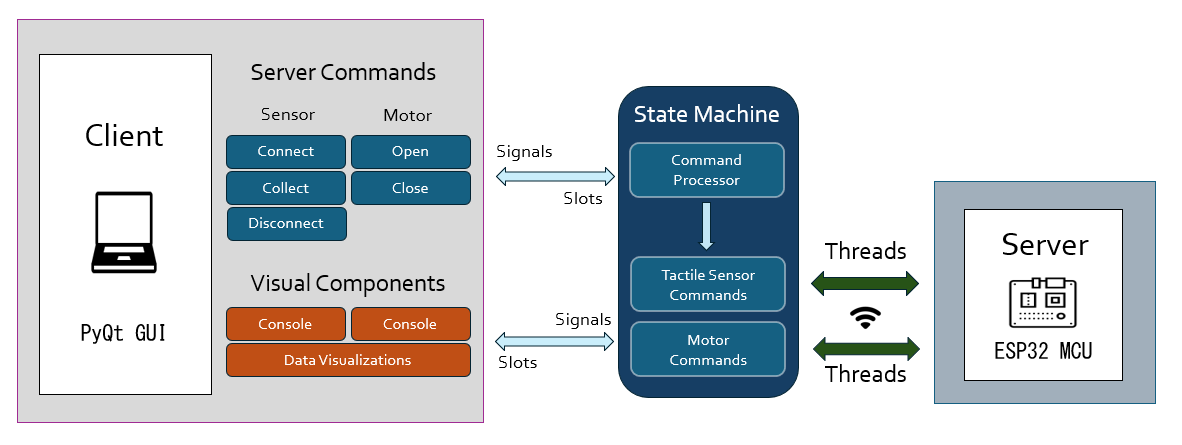
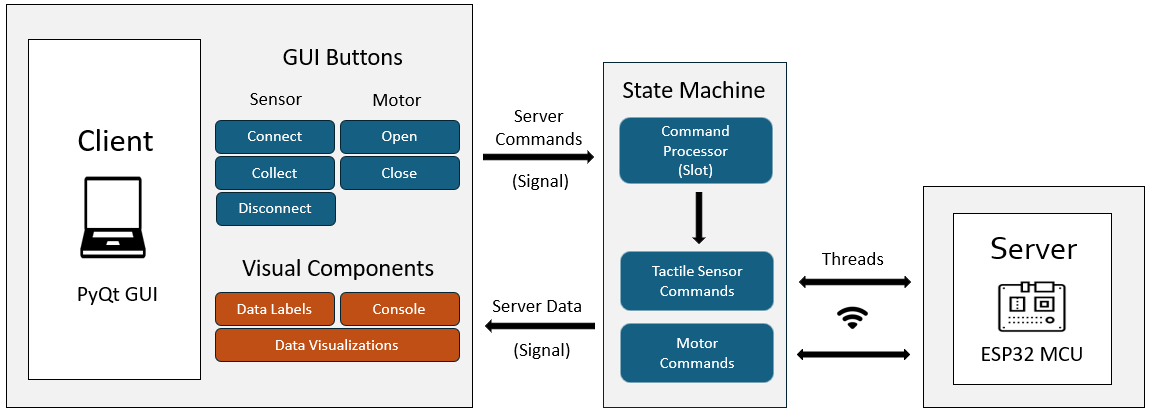
Feature refactoring (#18)
* updating index slicing of tactile data in LineGraph to use direct mutable methods

* moving ThreadWorker to StateMachine

* pulling in gui style changes

* updating readme header

* updating readme header

* updating readme header

* updating overview and project background

* fixing typos in Overview

* adding new gui snapshot image to readme

* updating architecture overview and diagram

* updating gui snapshot size

* fixing typos in application architecture

* updating wording in python socket section

* updating pyqt component architecture

* fixing typos in pyqt components

* updating content in repository structure

* updating table of contents links

* rewording project background

* fixing typos

* updating gui snapshot photo

* updating gui snapshot photo

* updating gui snapshot photo

diff --git a/src/components/LineGraph.py b/src/components/LineGraph.py
@@ -19,6 +19,7 @@ Methods:
 
 from PyQt6.QtWidgets import QWidget, QVBoxLayout
 import pyqtgraph as pg
+import math
 
 class LineGraph(QWidget):
     def __init__(self):
@@ -32,8 +33,7 @@ class LineGraph(QWidget):
         self.graph.setLabel("bottom", "Tactile Data Records")
 
         self.time = list(range(10))
-
-        self.tactile_data = {
+        self.data = {
             "x": [0 for _ in range(10)],
             "y": [0 for _ in range(10)],
             "z": [0 for _ in range(10)]
@@ -41,7 +41,7 @@ class LineGraph(QWidget):
 
         self.line_x = self.graph.plot(
             self.time,
-            self.tactile_data['x'],
+            self.data['x'],
             name="Tactile Sensor",
             pen=pg.mkPen(color="#0C746A", width=3),
             symbol="o",
@@ -51,7 +51,7 @@ class LineGraph(QWidget):
 
         self.line_y = self.graph.plot(
             self.time,
-            self.tactile_data['y'],
+            self.data['y'],
             name="Tactile Sensor",
             pen=pg.mkPen(color="#AFBBAF", width=3),
             symbol="o",
@@ -61,7 +61,7 @@ class LineGraph(QWidget):
 
         self.line_z = self.graph.plot(
             self.time,
-            self.tactile_data['z'],
+            self.data['z'],
             name="Tactile Sensor",
             pen=pg.mkPen(color="#6F8695", width=3),
             symbol="o",
@@ -77,17 +77,14 @@ class LineGraph(QWidget):
         The time and data values maintain their original length by removing the first
         element and appending the new data to the end.
         """
-        self.time = self.time[1:]
+
+        del self.time[0]
         self.time.append(self.time[-1] + 1)
-            
-        self.tactile_data['x'] = self.tactile_data['x'][1:]
-        self.tactile_data['y'] = self.tactile_data['y'][1:]
-        self.tactile_data['z'] = self.tactile_data['z'][1:]
 
-        self.tactile_data['x'].append(float(data[0]))
-        self.tactile_data['y'].append(float(data[1]))
-        self.tactile_data['z'].append(float(data[2]))
-
-        self.line_x.setData(self.time, self.tactile_data['x'])
-        self.line_y.setData(self.time, self.tactile_data['y'])
-        self.line_z.setData(self.time, self.tactile_data['z'])
+        for (key, val) in zip(self.data, data):
+            del self.data[key][0]
+            self.data[key].append(float(val))
+        
+        self.line_x.setData(self.time, self.data['x'])
+        self.line_y.setData(self.time, self.data['y'])
+        self.line_z.setData(self.time, self.data['z'])

diff --git a/src/components/StateMachine.py b/src/components/StateMachine.py
@@ -24,10 +24,9 @@ Methods:
     disconnect
 """
 
-from PyQt6.QtCore import QThreadPool, QObject, pyqtSlot as Slot, pyqtSignal as Signal
+from PyQt6.QtCore import QThreadPool, QObject, QRunnable, pyqtSlot as Slot, pyqtSignal as Signal
 from components.TactileSensor import TactileSensor
 from components.L9110HMotor import L9110HMotor
-from components.ThreadWorker import ThreadWorker
 
 class StateMachine(QObject):
 
@@ -88,3 +87,15 @@ class StateMachine(QObject):
         self.threadpool.start(worker)
         console_message["header"] = "info"
         self.sig_console_msg.emit(console_message)
+    
+
+class ThreadWorker(QRunnable):
+    def __init__(self, func, *args, **kwargs):
+        super(ThreadWorker, self).__init__()
+        self.func = func
+        self.args = args
+        self.kwargs = kwargs
+
+    @Slot()
+    def run(self):
+        self.func(*self.args, **self.kwargs)

diff --git a/src/containers/Console/Console.py b/src/containers/Console/Console.py
@@ -31,7 +31,7 @@ class Console(QWidget):
         self.textEdit = QTextEdit()
         self.textEdit.setReadOnly(True)
         self.textEdit.setObjectName("console")
-        self.__border = "-"*80
+        self.__border = "-"*75
         self.__consoleHeader = "APPLICATION CONSOLE"
         self.insert_text(self.__border)
         self.insert_text(self.__consoleHeader)

diff --git a/README.md b/README.md
@@ -1,24 +1,29 @@
-# QMUL MSc Advanced Robotics
-# Soft Robotic Gripper: Graphical User Interface
+# Queen Mary University of London
+## MSc Advanced Robotics
+### Soft Robotic Gripper - Graphical User Interface
 
 ## Overview
-This application serves as an interface for operating the soft [robotic gripper,](https://github.com/gpoell/qmul-rbh-esp32) visualizing its tactile sensor data, and collecting the tactile sensor data for additional processes such as integrating a Random Forest classification model for classifying strawberry ripeness. The GUI is developed with the Python framework [PyQt](https://doc.qt.io/qtforpython-6/) to simplify the composition of graphical components for managing its functionality.
+This application was created to provide a graphical interface for the [soft robotic gripper](https://github.com/gpoell/qmul-rbh-esp32) that can remotely operate the gripper, visualize real time tactile sensor data to understand grip forces, and record the tactile data for machine-learning processes. The GUI is developed with [PyQt](https://doc.qt.io/qtforpython-6/) to simplify the composition of graphical components that make up the application while also preserving familiarity with the popular Python programming language taught to future students that may be interested in enhancing this tool for their research projects. To encourage future development of this GUI or similar applications, this README provides a thorough outline of the entire application, including detailed instructions on how to clone and run the application in a Python virtual environment, an overview of how components communicate with the robotic gripper and each other, information on how the repository and PyQt components are organized, and a list of additional resources to expand upon topics covered below.
 
 <picture>
-    <img src='docs/gui_snapshot.png' width="400">
+    <img src='docs/gui_snapshot.png' width='650'>
 </pictuer>
 
 ## Table of Contents
-1. [Installation and Dependencies](https://github.com/gpoell/qmul-rbh-gui/tree/feature-update-readme?tab=readme-ov-file#installation-and-dependencies)
-2. [Running the Application](https://github.com/gpoell/qmul-rbh-gui/tree/feature-update-readme?tab=readme-ov-file#running-the-application)
-3. [Application Architecture](https://github.com/gpoell/qmul-rbh-gui/tree/feature-update-readme?tab=readme-ov-file#application-architecture)
-4. [PyQt Components](https://github.com/gpoell/qmul-rbh-gui/tree/feature-update-readme?tab=readme-ov-file#pyqt-components)
-5. [Repository Folder Structure](https://github.com/gpoell/qmul-rbh-gui/tree/feature-update-readme?tab=readme-ov-file#repository-folder-structure)
-6. [Helpful Articles](https://github.com/gpoell/qmul-rbh-gui/tree/feature-update-readme?tab=readme-ov-file#helpful-articles)
+1. [Project Background](#project-background)
+2. [Installation and Dependencies](#installation-and-dependencies)
+3. [Running the Application](#running-the-application)
+4. [Application Architecture](#application-architecture)
+5. [PyQt Components](#pyqt-components)
+6. [Repository Folder Structure](#repository-folder-structure)
+7. [Helpful Articles](#helpful-articles)
+
+## Project Background
+My dissertation is focused on classifying strawberry ripeness using the tactile data from the soft robotic gripper. The goal is to develop a technique that emulates how we use our sense of touch to assess the quality of certain crops, like picking ripe avocados at a supermarket. Computer vision is a popular and efficient technique for assessing crop ripeness, especially now that modern cameras can see better than humans. However, not all crops are visually differentiable based on their ripeness levels, and problems with computer vision persist in occluded harvesting environments where cameras struggle to see through shadows or branches, which is a particular issue while harvesting strawberries. Providing a simple technique using tactile data to reinforce what cameras see with what the gripper feels could prove useful when harvesting in occluded environments and performing post-harvest quality inspections.
 
 ## Installation and Dependencies
 ### Software
-Python3 is required to run this application and the latest download insturctions are found [here.](https://www.python.org/downloads/ "Python Downloads"). The current version used at the time of writing this documentation is 3.11.2.
+Python3 is required to run this application and the latest download instructions are found [here.](https://www.python.org/downloads/ "Python Downloads"). The current version used at the time of writing this documentation is 3.11.2.
 Software     | Version
 ------      | ------
 Python3        | latest
@@ -75,7 +80,7 @@ client:
 
 
 ## Application Architecture
-The GUI is a multithreaded application that communicates with the ESP32 server over Wi-Fi. Commands sent to the server occur during events like pressing buttons. The buttons emit commands as [PyQt signals]() which are received by the State Machine's [PyQt Slots](). The State Machine is a centralized component responsible for monitoring the state of application to ensure events are triggered at the appropriate time (e.g. the gripper cannot open and close at the same time.) and executing commands through seperate [threads]() which is vital for simultaneously reading tactile data and operating the gripper. Each thread maintains a connection with the server using [Python Sockets]() that follows the communication protocol outlined below. Incoming data received from the server is emitted to various GUI components to provide data for visualizations and information for the terminal.
+The GUI is a multithreaded application that communicates with the ESP32 server over Wi-Fi, where commands are sent to the server through separate threads when clicking buttons. [PyQt Signals & Slots](https://doc.qt.io/qtforpython-6/overviews/signalsandslots.html) are the primary method which GUI components communicate with each other. The GUI buttons emit their respective commands as signals to the State Machine which actively listens for them through its slots. The State Machine is a centralized component that monitors the state of the application to ensure events are triggered at the appropriate time (e.g. the gripper cannot open and close at the same time) and sends commands to the server through separate [threads](https://docs.python.org/3/library/threading.html). Each thread maintains a unique connection with the server using [Python Sockets](https://docs.python.org/3/library/socket.html) (see communication protocol outlined below) and is essential for simultaneously reading tactile data and operating the gripper. The server responds to the GUI requests and sends data back through the State Machine threads. The State Machine then emits the server data as signals to the various GUI visual components to be visualized in the dashboard and to update informative events in the terminal.
 
 <picture>
     <img src='docs/gui_architecture.png'>
@@ -97,7 +102,7 @@ When the Connect button (line 18, 19) is clicked, it executes the emit_signal() 
 33.    self.sig_state_command.emit(command)
 ```
 
-The State Machine has a slot decorator (line 41) that actively listens for string signals with the name "stateCommand" and uses the value to determine which processes to run in seperate threads (line 42, 58). In this scenario, the "connect" signal executes the Tactile Sensor connect method (line 60).
+The State Machine has a slot decorator (line 41) that actively listens for string signals with the name "stateCommand" and uses the value to determine which processes to run in separate threads (line 42, 58). In this scenario, the "connect" signal executes the Tactile Sensor connect method (line 60).
 
 <b>StateMachine.py</b>
 ```
@@ -141,7 +146,7 @@ Every command sent to the ESP32 server is communicated through a unique thread. 
 
 [Python Sockets](https://docs.python.org/3/library/socket.html#) are used as the primary network interface for communicating with the Esp32 server. The Helpful Articles section contains additional resources that explain how these work in more detail, so the rest of this section explains how sockets are implemented within this application to communicate with the ESP32 server.
 
-Every command sent to the server is managed by a unique thread that contains a unique connection which is responsible for sending and receiving data specific to that command. The EspClient component (EspClient.py) handles a majority of the functionality for connecting to the server, sending data, receiving data, and closing the connection. These methods are utilized by Tactile Sensor (TactileSensor.py) and Motor (L9110HMotor.py) components to perform their respective functions (e.g. reading tactile data or moving the gripper) with their respective clients.
+Every command sent to the server is managed by a separate thread that contains a unique connection responsible for sending and receiving data specific to that command. The EspClient component (EspClient.py) handles a majority of the functionality for connecting to the server, sending data, receiving data, and closing the connection. Thes EspClient is inherited by the Tactile Sensor (TactileSensor.py) and Motor (L9110HMotor.py) components to establish connections with the server and perform their respective functions (e.g. reading tactile data or moving the gripper).
 
 The process for communicating with the server through sockets is generally the same:
 1. Connect to the server
@@ -149,7 +154,7 @@ The process for communicating with the server through sockets is generally the s
 3. Receive data from the server
 4. Close the connection
 
-Most of the variation in the steps outlined above occurs while receiving data from the server, specifically with reading messages from the server buffer. It is required to specify the size of the buffer to read, and the size of every message varies which can cause information to overflow and spawn downstream issues. To simplify the protocol, a fixed message size of ### bytes (in progress) is always sent from the server and read until a null terminating character is received. Ideally we would want to determine the length of each message prior to reading it, possibly through prefixing messages with headers, to minimize the waste. For now, the prefixed size is small enough to avoid noticeable performance issues.
+Most of the variation in the steps outlined above occurs while receiving data from the server, specifically with reading messages from the server buffer. It is required to specify the size of the buffer to read, and the size of every message varies which can cause information to overflow and spawn downstream issues. To simplify the protocol, a fixed message size of 64 bytes is always sent from the server and read until a null terminating character is received. Ideally, we would want to determine the length of each message prior to reading it, possibly through prefixing messages with headers, to optimize space. For now, the prefixed size is small enough to avoid noticeable performance issues.
 
 </details>
 
@@ -158,23 +163,27 @@ Most of the variation in the steps outlined above occurs while receiving data fr
 <details>
 <summary>Creating Components and Layout Management</summary>
 
-PyQt provides a variety graphical components, such as buttons and text boxes, called QWidgets. Widgets are combined to create the Components and Containers that make up the entire application, and the order in which they are displayed is handled through [PyQt Layout Management](https://doc.qt.io/qtforpython-5/overviews/layout.html). Components must inherit from the QWidget class to properly render in the GUI.  
+PyQt provides a variety graphical components, such as buttons and text boxes, called QWidgets. Widgets are combined to create the Components and Containers that make up the entire application, and the order in which they are displayed is handled through [PyQt Layout Management](https://doc.qt.io/qtforpython-5/overviews/layout.html). Components in this application inherit from the QWidget class to render in the GUI.  
 
-To conceptualize how the interface is built, everything is managed in boxes that may contain other boxes. The GUI itself is a large box with other smaller boxes aligned vertically and horizontally using layout management. For example, the Control Panel consists of two boxes of buttons that that are horizontally aligned. These buttons are grouped based on their Sensor (SensorControls.py) and Motor (MotorControls.py) functionality and are vertically aligned. For new contributors to this project, I encourage you to change the layout of the buttons to horizontal and flip how they are ordered in the Control Panel to get a feel for how the layouts work.
+To conceptualize how the interface is built, all of the components are organized in layout boxes. The GUI itself is a large box composed of smaller boxes vertically and horizontally aligned using PyQt's layout management. For example, as shown in the diagram below, the Desktop contains a Dashboard and Control Panel, and the Dashboard contains a data graph and a group of data labels. For new contributors to this project, I encourage you to change the layout of the data labels to horizontal and switch its order in the Dashboard to get a feel for how the layouts work.
 
-Building further on this nested box concept is the hierarchy of how components are grouped. The largest grouping of components are considered containers. The Desktop is the largest container consisting of smaller containers (e.g. Console.py and ControlPanel.py) which consist of Components that consist of Widgets. This hierarchy is intended to help organize and modularize the code and improve maintainability.
+<picture>
+    <img src='docs/gui_component_layout.png'>
+</pictuer>
+
+Building further on this nested box concept is the hierarchy of how components are grouped. The largest grouping of components are considered containers. The Desktop is the largest container consisting of two smaller containers (Dashboard.py and ControlPanel.py) which consist of components that consist of widgets. This hierarchy is intended to help organize, encapsulate, and improve the maintainability of the code.
 
 Lastly, the creation of every container and component follows the same standard process:
 
 <b>Example: MotorControls.py</b>
-1. Create the main layout and any sublayouts
+1. Create the main layout and any sub layouts
 2. Create the widgets or components
 3. Add the widgets to the layouts
 
 </details>
  
 ## Repository Folder Structure
-Below is a summary of how the code for the GUI is organized. It leverages a container, components, and utils architecture to modularize the major sections of the application, reusable components, and shared utility functions.
+Below is a summary of how the code for the GUI is organized. It leverages a container, components, and utils architecture to organize the major containers of the application, reusable components, and shared utility functions.
 
 📁src/ -- all source code for the application
 * 📁components/ -- reusable components shared throughout the application
